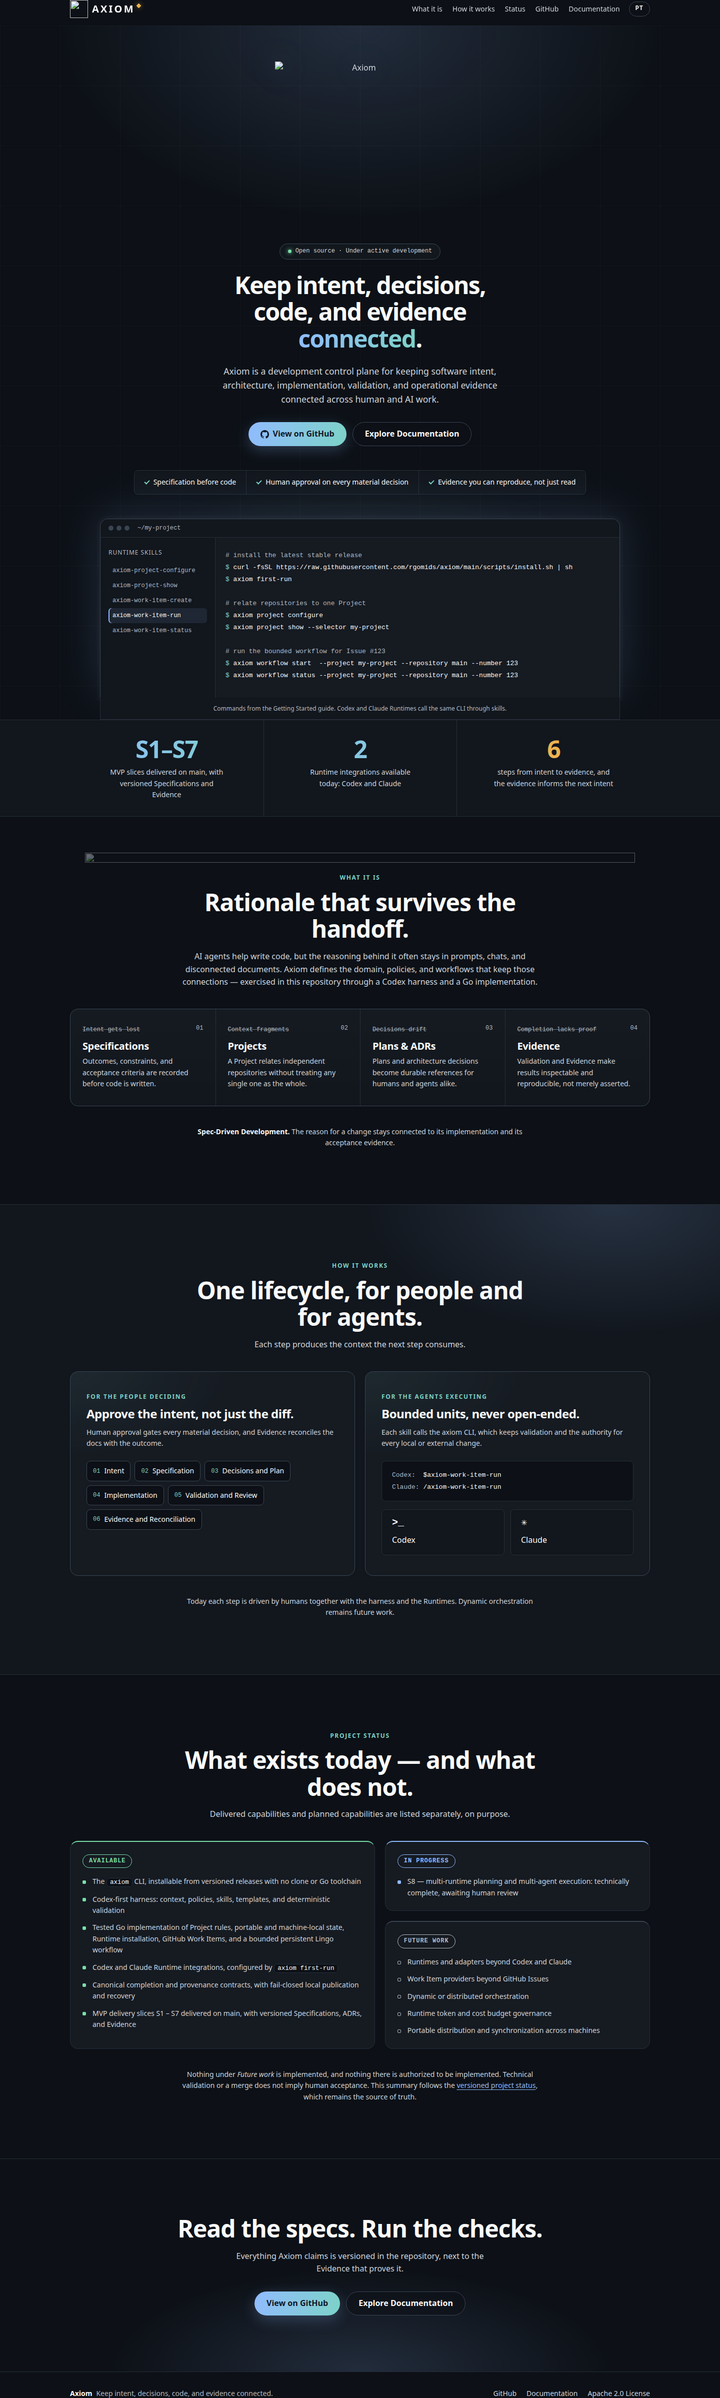
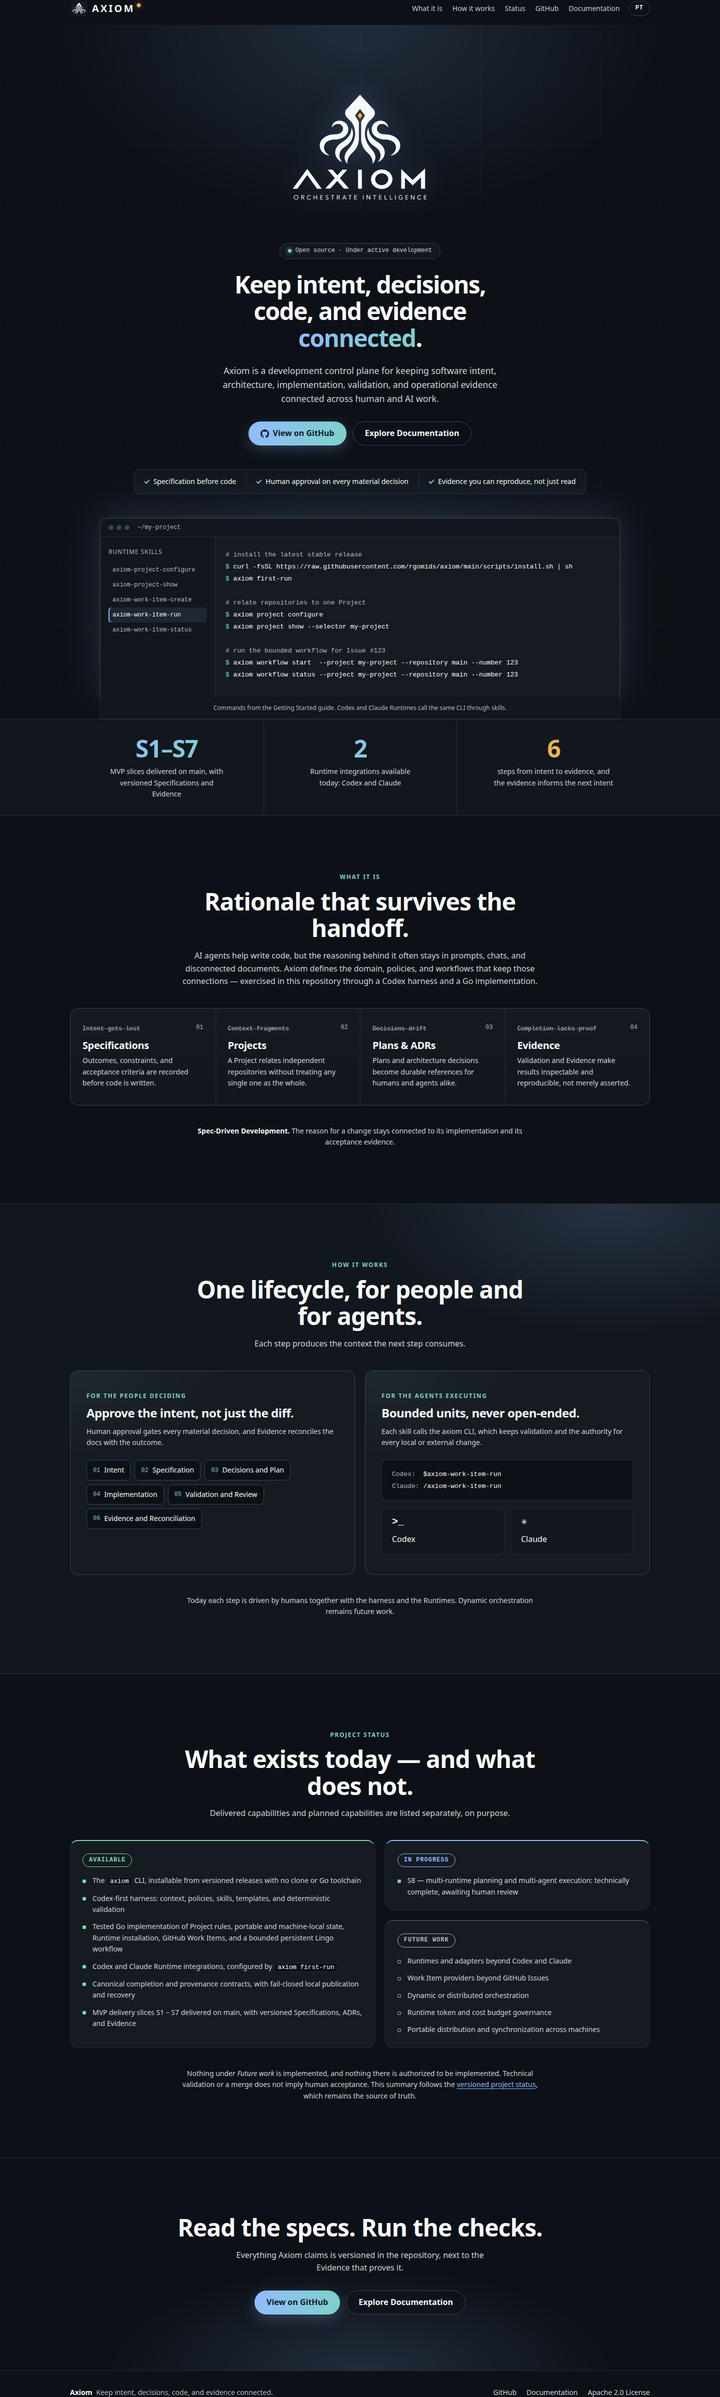
feat(site): remove the section watermark
Drops the axiom-logo-black.png watermark behind "What it is" at the
maintainer's request; the section now opens directly on its heading.
The dark artwork remains the Open Graph and Twitter image. The
validator, Evidence, browser probe and screenshots are updated to
match.

Refs #86

diff --git a/site/index.html b/site/index.html
@@ -135,11 +135,8 @@
   </section>
 
   <!-- What it is: logo hub, then the four problems and what replaces them -->
-  <section class="section section-watermark" id="what" aria-labelledby="what-title">
+  <section class="section" id="what" aria-labelledby="what-title">
     <div class="shell">
-      <!-- Watermark: the canonical dark artwork sits behind the heading; styles.css "Watermark" -->
-      <img class="watermark" src="https://raw.githubusercontent.com/rgomids/axiom/main/docs/assets/axiom-logo-black.png" alt="" width="1536" height="1024" decoding="async" aria-hidden="true">
-
       <header class="section-head">
         <p class="eyebrow" data-pt="O que é">What it is</p>
         <h2 id="what-title" data-pt="O porquê que sobrevive à passagem de bastão.">Rationale that survives the handoff.</h2>

diff --git a/site/styles.css b/site/styles.css
@@ -569,30 +569,6 @@ code {
   .section { padding: 112px 0; }
 }
 
-/* --- What it is: watermark ---
-   The dark artwork is already faded and transparent; it sits behind the
-   heading and never takes clicks. Raise opacity here to make it stronger. */
-.section-watermark { position: relative; overflow: hidden; }
-.section-watermark > .shell { position: relative; }
-.section-watermark > .shell > :not(.watermark) { position: relative; z-index: 1; }
-
-.watermark {
-  position: absolute;
-  top: 0;
-  left: 50%;
-  z-index: 0;
-  width: min(1100px, 150%);
-  max-width: none;
-  transform: translateX(-50%);
-  opacity: 0.4;
-  pointer-events: none;
-  user-select: none;
-}
-
-@media (min-width: 760px) {
-  .watermark { top: -40px; }
-}
-
 /* --- What it is: joined cards --- */
 .joined {
   display: grid;

diff --git a/docs/product/evidence-landing-page.md b/docs/product/evidence-landing-page.md
@@ -87,16 +87,14 @@ page consumes them through the absolute raw URLs of those canonical files:
 ```text
 https://raw.githubusercontent.com/rgomids/axiom/main/docs/assets/axiom-logo-github.png     header mark
 https://raw.githubusercontent.com/rgomids/axiom/main/docs/assets/axiom-logo-white.png      hero logo
-https://raw.githubusercontent.com/rgomids/axiom/main/docs/assets/axiom-logo-black.png      "What it is" watermark, Open Graph, Twitter Card
+https://raw.githubusercontent.com/rgomids/axiom/main/docs/assets/axiom-logo-black.png      Open Graph, Twitter Card
 https://raw.githubusercontent.com/rgomids/axiom/main/docs/assets/axiom-logo-app-black.png  favicon, Apple Touch icon
 ```
 
 The header uses the rounded app tile at the maintainer's request; on `main` it is
 byte-identical to `docs/assets/axiom-logo-github.png` at `d5f7822`. A GitHub
 `blob` URL renders an HTML page, so the raw URL is used instead. The white mark is
-transparent and keeps its gold detail on the graphite canvas. The dark artwork is
-transparent and already faded, so it serves as a watermark behind the *What it
-is* heading at 40 % opacity, stacked under the text and ignoring pointer events. No `blob` URL is
+transparent and keeps its gold detail on the graphite canvas. No `blob` URL is
 used for an image, no relative path crosses the published boundary, and no copy of
 any asset exists under `site/`.
 
@@ -116,7 +114,7 @@ PASS: no canonical asset is duplicated inside site/
 PASS: no residual landing_page/ reference in the repository
 PASS: site/ loads no image through a GitHub blob URL
 PASS: site/ references no identity asset through a relative path
-PASS: favicon, Apple Touch icon, Open Graph, Twitter, header, hero and watermark use canonical raw URLs
+PASS: favicon, Apple Touch icon, Open Graph, Twitter, header and hero use canonical raw URLs
 PASS: declared image dimensions match the canonical assets in docs/assets/
 PASS: canonical URL, Open Graph and Twitter metadata are present
 PASS: dark is the only theme: no OS branch, no stored preference, no toggle
@@ -177,9 +175,9 @@ grep -RE 'src="(\.\.?/|assets/)' site
 grep -R "raw.githubusercontent.com/rgomids/axiom/main/docs/assets" site
 ```
 
-The first three produce no output. The fourth matches seven canonical references
+The first three produce no output. The fourth matches six canonical references
 in `site/index.html`: `og:image`, `twitter:image`, `icon`, `apple-touch-icon`, and
-the header, hero and watermark `<img>`. `evidence-s3.md` is excluded because it
+the header and hero `<img>`. `evidence-s3.md` is excluded because it
 quotes a historical stash message verbatim; editing an accepted record to satisfy
 a lint would falsify it. The only `blob` URL in `site/` is the footer link to
 `LICENSE`, a document a reader opens, not an asset the browser loads.
@@ -255,7 +253,7 @@ function frame(width, height) {
   f.remove(); f = await frame(390, 844); d = f.contentDocument;
   log('overflow@390  ' + (d.documentElement.scrollWidth > d.documentElement.clientWidth) +
       ' section-links=' + f.contentWindow.getComputedStyle(d.querySelector('.nav-section')).display +
-      ' watermark-under-text=' + (+f.contentWindow.getComputedStyle(d.querySelector('.watermark')).zIndex < +f.contentWindow.getComputedStyle(d.querySelector('#what .section-head')).zIndex));
+      ' brand-name=' + f.contentWindow.getComputedStyle(d.querySelector('.brand-name')).display);
   log('DONE');
 })();
 </script>
@@ -273,11 +271,10 @@ second click  lang=en stored=en
 storage keys  axiom-lang
 img OK 1254x1254 brand-mark axiom-logo-github.png
 img OK 1254x1254 hero-logo axiom-logo-white.png
-img OK 1536x1024 watermark axiom-logo-black.png
 body background rgb(13, 17, 23)
 running animations 0
 overflow@1440 false
-overflow@390  false section-links=none watermark-under-text=true
+overflow@390  false section-links=none brand-name=block
 DONE
 ```
 
@@ -292,7 +289,7 @@ What this shows:
   `--force-prefers-reduced-motion`.
 - **Layout:** no horizontal overflow at 1440 px or 390 px. At 390 px the section
   links are hidden; the header keeps the mark, the `AXIOM` wordmark, GitHub,
-  Documentation and the language switch. The watermark stacks below the text.
+  Documentation and the language switch.
 
 Screenshots, captured with headless Chrome against the locally served `site/`
 and stored next to this Evidence (not published by the Pages workflow):
@@ -364,9 +361,9 @@ The workflow uploads `./site` unchanged and copies no logo into it.
   unpublished, and its compiled CSS defaults to the light theme, so the dark
   semantic values are written as local custom properties. A DS token change is
   not picked up automatically.
-- `axiom-logo-black.png` (about 1 MB) is both the watermark and the Open Graph
-  and Twitter image; an optimised derivative would be a new canonical asset
-  decision, not a copy under `site/`.
+- The Open Graph and Twitter image is the 1 MB `axiom-logo-black.png`; an
+  optimised derivative would be a new canonical asset decision, not a copy under
+  `site/`.
 - How social platforms crop or cache the Open Graph and Twitter images is outside
   this Evidence.
 - Headless Chrome only: no cross-browser or real-device matrix, and no Lighthouse
